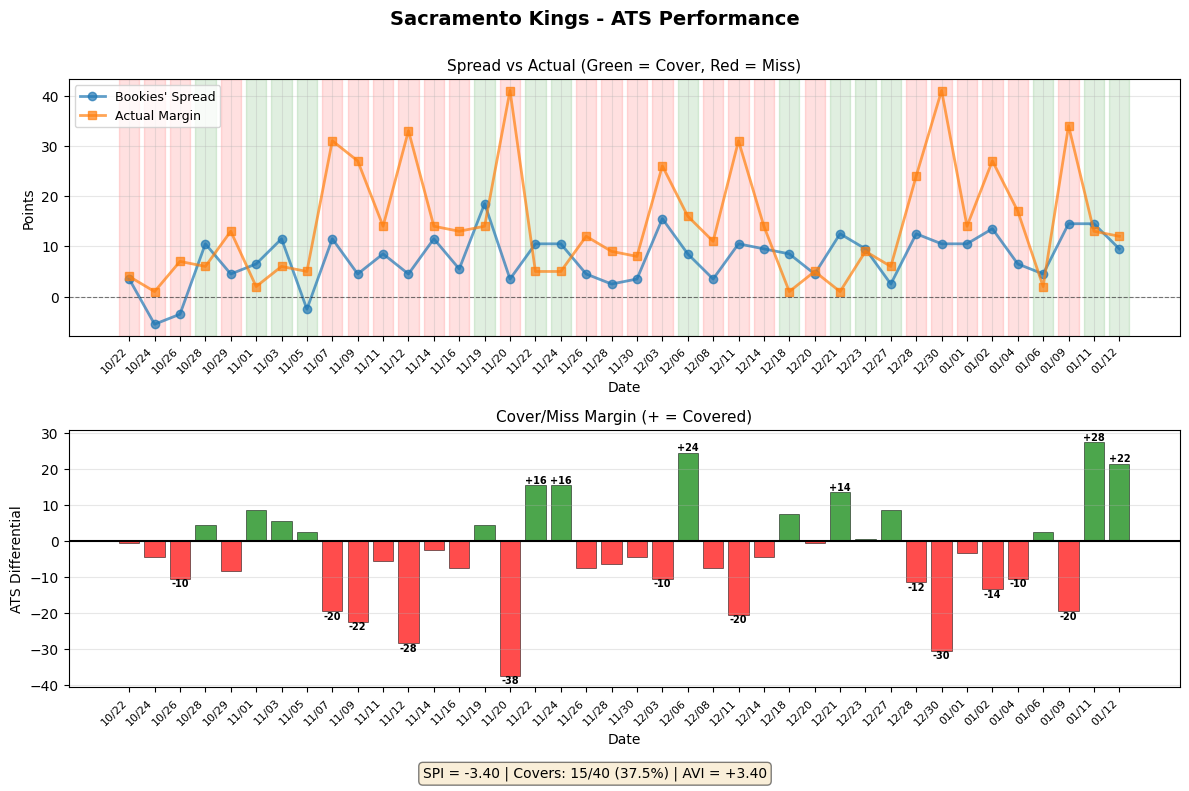
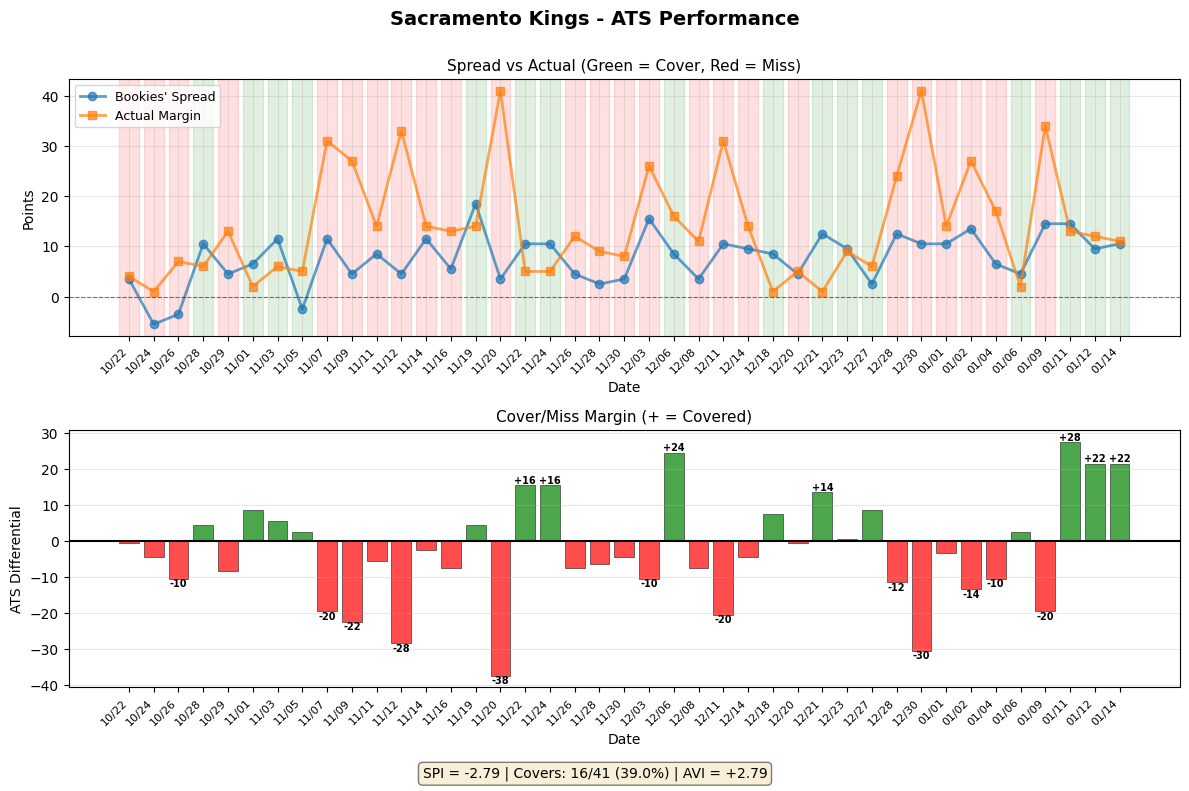
Update nbabetinfo page with ATS plots [2026-01-16 05:18 UTC]

diff --git a/index.html b/index.html
@@ -193,14 +193,12 @@
           </tr>
         </thead>
         <tbody>
-          <tr><td class='time'>4:00 PM PT</td><td class='team-name'>Phoenix Suns (+7.5)</td><td class='metric'>+4.20</td><td class='metric'>+8.82</td><td class='metric highlight'>+0.92</td><td class='metric'>70.7%</td><td class='team-name'>Detroit Pistons (-7.5)</td><td class='metric'>+2.00</td><td class='metric highlight'>-0.05</td><td class='metric'>+9.94</td><td class='metric'>53.8%</td></tr>
-<tr><td class='time'>4:30 PM PT</td><td class='team-name'>Oklahoma City Thunder (-4.5)</td><td class='metric'>+1.40</td><td class='metric highlight'>+1.40</td><td class='metric na'>—</td><td class='metric'>50.0%</td><td class='team-name'>Houston Rockets (+4.5)</td><td class='metric'>-0.68</td><td class='metric'>-1.15</td><td class='metric highlight'>+3.25</td><td class='metric'>47.4%</td></tr>
-<tr><td class='time'>4:30 PM PT</td><td class='team-name'>Boston Celtics (-2.5)</td><td class='metric'>+2.38</td><td class='metric highlight'>+1.30</td><td class='metric'>+4.62</td><td class='metric'>55.0%</td><td class='team-name'>Miami Heat (+2.5)</td><td class='metric'>+1.82</td><td class='metric'>-3.50</td><td class='metric highlight'>+5.98</td><td class='metric'>56.1%</td></tr>
-<tr><td class='time'>5:00 PM PT</td><td class='team-name'>Milwaukee Bucks (+7.5)</td><td class='metric'>-2.84</td><td class='metric'>-7.00</td><td class='metric highlight'>+0.75</td><td class='metric'>43.9%</td><td class='team-name'>San Antonio Spurs (-7.5)</td><td class='metric'>+2.68</td><td class='metric highlight'>-0.70</td><td class='metric'>+8.77</td><td class='metric'>52.4%</td></tr>
-<tr><td class='time'>5:30 PM PT</td><td class='team-name'>Utah Jazz (+2.5)</td><td class='metric'>-0.26</td><td class='metric'>-2.00</td><td class='metric highlight'>-0.07</td><td class='metric'>56.1%</td><td class='team-name'>Dallas Mavericks (-2.5)</td><td class='metric'>-0.81</td><td class='metric highlight'>-5.97</td><td class='metric'>+2.37</td><td class='metric'>42.9%</td></tr>
-<tr><td class='time'>7:00 PM PT</td><td class='team-name'>New York Knicks (+7.5)</td><td class='metric'>-0.87</td><td class='metric'>-0.89</td><td class='metric highlight'>-0.70</td><td class='metric'>51.2%</td><td class='team-name'>Golden State Warriors (-7.5)</td><td class='metric'>-1.09</td><td class='metric highlight'>-1.10</td><td class='metric'>-1.05</td><td class='metric'>46.3%</td></tr>
-<tr><td class='time'>7:00 PM PT</td><td class='team-name'>Atlanta Hawks (-3.5)</td><td class='metric'>-0.07</td><td class='metric highlight'>-3.11</td><td class='metric'>+2.43</td><td class='metric'>50.0%</td><td class='team-name'>Portland Trail Blazers (+3.5)</td><td class='metric'>-0.22</td><td class='metric'>-5.00</td><td class='metric highlight'>+2.26</td><td class='metric'>53.7%</td></tr>
-<tr><td class='time'>7:30 PM PT</td><td class='team-name'>Charlotte Hornets (+3.5)</td><td class='metric'>+4.17</td><td class='metric'>+3.29</td><td class='metric highlight'>+4.36</td><td class='metric'>57.5%</td><td class='team-name'>Los Angeles Lakers (-3.5)</td><td class='metric'>-2.24</td><td class='metric highlight'>-2.70</td><td class='metric'>-1.59</td><td class='metric'>55.3%</td></tr>
+          <tr><td class='time'>4:00 PM PT</td><td class='team-name'>New Orleans Pelicans (+3.5)</td><td class='metric'>-0.43</td><td class='metric'>+9.00</td><td class='metric highlight'>-1.40</td><td class='metric'>51.2%</td><td class='team-name'>Indiana Pacers (-3.5)</td><td class='metric'>-2.78</td><td class='metric highlight'>-8.83</td><td class='metric'>-1.74</td><td class='metric'>51.2%</td></tr>
+<tr><td class='time'>4:00 PM PT</td><td class='team-name'>Cleveland Cavaliers (+1.5)</td><td class='metric'>-3.27</td><td class='metric'>-4.81</td><td class='metric highlight'>+3.25</td><td class='metric'>33.3%</td><td class='team-name'>Philadelphia 76ers (-1.5)</td><td class='metric'>+0.01</td><td class='metric highlight'>-0.02</td><td class='metric'>+0.07</td><td class='metric'>59.0%</td></tr>
+<tr><td class='time'>4:30 PM PT</td><td class='team-name'>Los Angeles Clippers (-2.5)</td><td class='metric'>-1.50</td><td class='metric highlight'>-5.15</td><td class='metric'>+2.15</td><td class='metric'>47.5%</td><td class='team-name'>Toronto Raptors (+2.5)</td><td class='metric'>+0.67</td><td class='metric'>-2.62</td><td class='metric highlight'>+5.06</td><td class='metric'>47.6%</td></tr>
+<tr><td class='time'>4:30 PM PT</td><td class='team-name'>Chicago Bulls (+1.5)</td><td class='metric'>-2.10</td><td class='metric'>-7.76</td><td class='metric highlight'>+3.02</td><td class='metric'>50.0%</td><td class='team-name'>Brooklyn Nets (-1.5)</td><td class='metric'>+2.80</td><td class='metric highlight'>+14.50</td><td class='metric'>+2.49</td><td class='metric'>47.4%</td></tr>
+<tr><td class='time'>6:30 PM PT</td><td class='team-name'>Minnesota Timberwolves (+3.5)</td><td class='metric'>+0.44</td><td class='metric'>+0.19</td><td class='metric highlight'>+1.33</td><td class='metric'>43.9%</td><td class='team-name'>Houston Rockets (-3.5)</td><td class='metric'>-0.68</td><td class='metric highlight'>-1.15</td><td class='metric'>+3.25</td><td class='metric'>47.4%</td></tr>
+<tr><td class='time'>7:00 PM PT</td><td class='team-name'>Washington Wizards (+7.5)</td><td class='metric'>-1.14</td><td class='metric'>-11.83</td><td class='metric highlight'>-0.25</td><td class='metric'>38.5%</td><td class='team-name'>Sacramento Kings (-7.5)</td><td class='metric'>-2.79</td><td class='metric highlight'>-4.17</td><td class='metric'>-2.68</td><td class='metric'>39.0%</td></tr>
         </tbody>
       </table>
     </div>
@@ -223,22 +221,18 @@
     <section class="plots-section">
       <h2>ATS Performance Charts for Today's Teams</h2>
       <div class="plots-grid">
-        <div class="plot-item"><img src="plots/ats_phoenix-suns.png" alt="Phoenix Suns ATS Performance" /></div>
-        <div class="plot-item"><img src="plots/ats_detroit-pistons.png" alt="Detroit Pistons ATS Performance" /></div>
-        <div class="plot-item"><img src="plots/ats_oklahoma-city-thunder.png" alt="Oklahoma City Thunder ATS Performance" /></div>
+        <div class="plot-item"><img src="plots/ats_new-orleans-pelicans.png" alt="New Orleans Pelicans ATS Performance" /></div>
+        <div class="plot-item"><img src="plots/ats_indiana-pacers.png" alt="Indiana Pacers ATS Performance" /></div>
+        <div class="plot-item"><img src="plots/ats_cleveland-cavaliers.png" alt="Cleveland Cavaliers ATS Performance" /></div>
+        <div class="plot-item"><img src="plots/ats_philadelphia-76ers.png" alt="Philadelphia 76ers ATS Performance" /></div>
+        <div class="plot-item"><img src="plots/ats_los-angeles-clippers.png" alt="Los Angeles Clippers ATS Performance" /></div>
+        <div class="plot-item"><img src="plots/ats_toronto-raptors.png" alt="Toronto Raptors ATS Performance" /></div>
+        <div class="plot-item"><img src="plots/ats_chicago-bulls.png" alt="Chicago Bulls ATS Performance" /></div>
+        <div class="plot-item"><img src="plots/ats_brooklyn-nets.png" alt="Brooklyn Nets ATS Performance" /></div>
+        <div class="plot-item"><img src="plots/ats_minnesota-timberwolves.png" alt="Minnesota Timberwolves ATS Performance" /></div>
         <div class="plot-item"><img src="plots/ats_houston-rockets.png" alt="Houston Rockets ATS Performance" /></div>
-        <div class="plot-item"><img src="plots/ats_boston-celtics.png" alt="Boston Celtics ATS Performance" /></div>
-        <div class="plot-item"><img src="plots/ats_miami-heat.png" alt="Miami Heat ATS Performance" /></div>
-        <div class="plot-item"><img src="plots/ats_milwaukee-bucks.png" alt="Milwaukee Bucks ATS Performance" /></div>
-        <div class="plot-item"><img src="plots/ats_san-antonio-spurs.png" alt="San Antonio Spurs ATS Performance" /></div>
-        <div class="plot-item"><img src="plots/ats_utah-jazz.png" alt="Utah Jazz ATS Performance" /></div>
-        <div class="plot-item"><img src="plots/ats_dallas-mavericks.png" alt="Dallas Mavericks ATS Performance" /></div>
-        <div class="plot-item"><img src="plots/ats_new-york-knicks.png" alt="New York Knicks ATS Performance" /></div>
-        <div class="plot-item"><img src="plots/ats_golden-state-warriors.png" alt="Golden State Warriors ATS Performance" /></div>
-        <div class="plot-item"><img src="plots/ats_atlanta-hawks.png" alt="Atlanta Hawks ATS Performance" /></div>
-        <div class="plot-item"><img src="plots/ats_portland-trail-blazers.png" alt="Portland Trail Blazers ATS Performance" /></div>
-        <div class="plot-item"><img src="plots/ats_charlotte-hornets.png" alt="Charlotte Hornets ATS Performance" /></div>
-        <div class="plot-item"><img src="plots/ats_los-angeles-lakers.png" alt="Los Angeles Lakers ATS Performance" /></div>
+        <div class="plot-item"><img src="plots/ats_washington-wizards.png" alt="Washington Wizards ATS Performance" /></div>
+        <div class="plot-item"><img src="plots/ats_sacramento-kings.png" alt="Sacramento Kings ATS Performance" /></div>
       </div>
     </section>
   </body>
